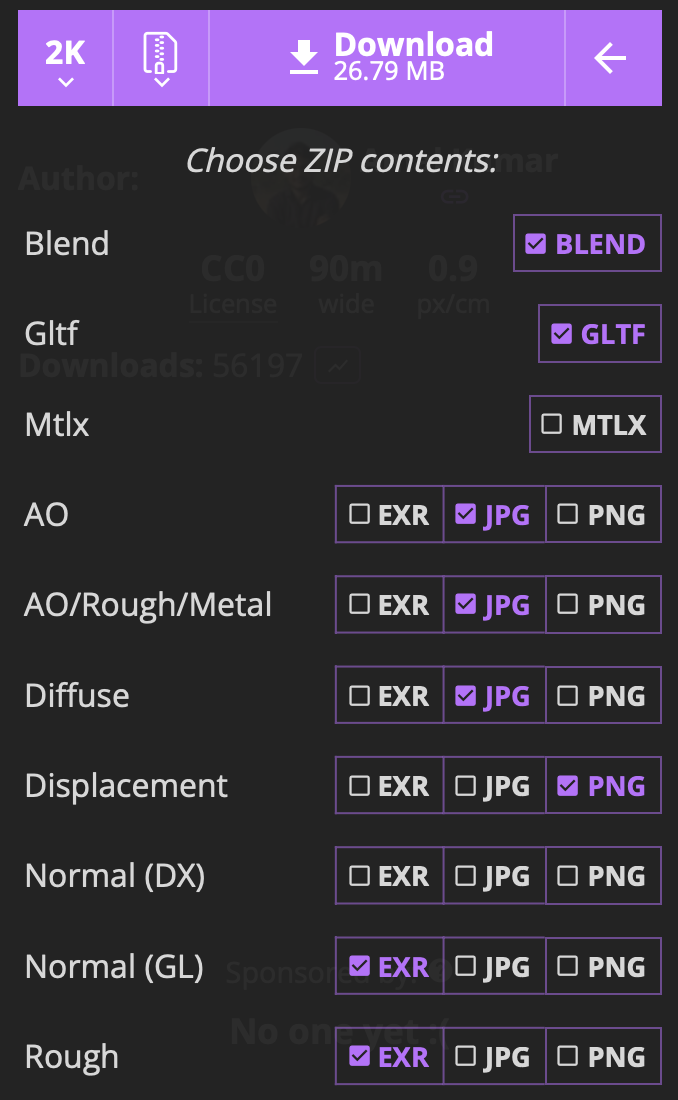
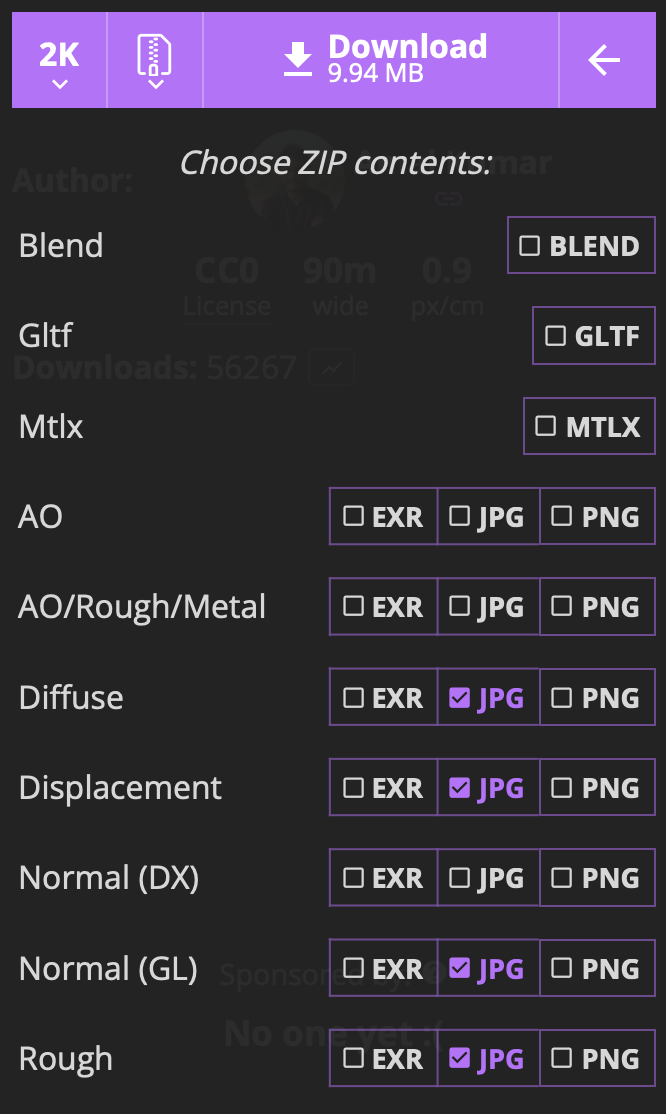
.

diff --git a/04-Intro3D/02-Materials.md b/04-Intro3D/02-Materials.md
@@ -99,6 +99,10 @@ Escull per descarregar, i les opcions de la imatge:
 
 - 2K
 - Zip
+- Diffuse JPG
+- Displacement JPG
+- Normal (GL)
+- Rough (GL)
 
 <center>
 <img src="./assets/materials-download.png" style="width: 90%; max-width: 400px">
@@ -114,9 +118,36 @@ Arrossega els materials descarregats a la carpeta:
 </center>
 <br/>
 
+Escull la textura **"rocky_terrain_nor_gl_2k.jpg"** *(la de color lila), i al seu inspector marca la com a:
+
+- **Texture type**: Normal map
+
+<center>
+<img src="./assets/materials-normalmap.png" style="width: 90%; max-width: 700px">
+</center>
+
 Cada una d'aquestes textures, informa d'unes propietats que fan falta per fer el material més realistic:
 
-- **rocy_terrain_ao_2k**: 
-- **rocy_terrain_arm_2k**: 
-- **rocy_terrain_diff_2k**: 
-- **rocy_terrain_disp_2k**: 
+- **rocky_terrain_diff_2k.jpg**: el color *"albedo"* de la textura
+- **rocky_terrain_disp_2k.jpg**: per donar relleu a la textura (gasta potència de càlcul)
+- **rocky_terrain_nor_gl_2k.jpg**: determina com reacciona la llum a la superfície
+- **rocky_terrain_rough_2k.jpg**: indica la rugositat/pulidesa de la superfície
+
+### Terra amb textura
+
+A la carpeta **"Assets > Materials"** crea un nou material amb:
+
+*Create > Material*
+
+Anomena al material **"Rocky Terrain"**.
+
+Aplica el terreny a l'objecte **"Plane"**, de moment no es veuen massa canvis.
+
+Per fer que es reflexi més la llum, canvia el valor de:
+
+- Normal Map: 1.5
+
+<center>
+<img src="./assets/materials-maps.png" style="width: 90%; max-width: 700px">
+</center>
+

diff --git a/04-Intro3D/01-Escena.md b/04-Intro3D/01-Escena.md
@@ -296,7 +296,7 @@ using UnityEngine.InputSystem;
 public class PlayerMove : MonoBehaviour
 {
     [Header("Movement")]
-    public float moveSpeed = 3.5f;
+    public float moveSpeed = 1.6f;
     public float turnSpeed = 720f;   // graus/segon
     public float gravity = -9.81f;
     public float inputDeadzone = 0.05f;
